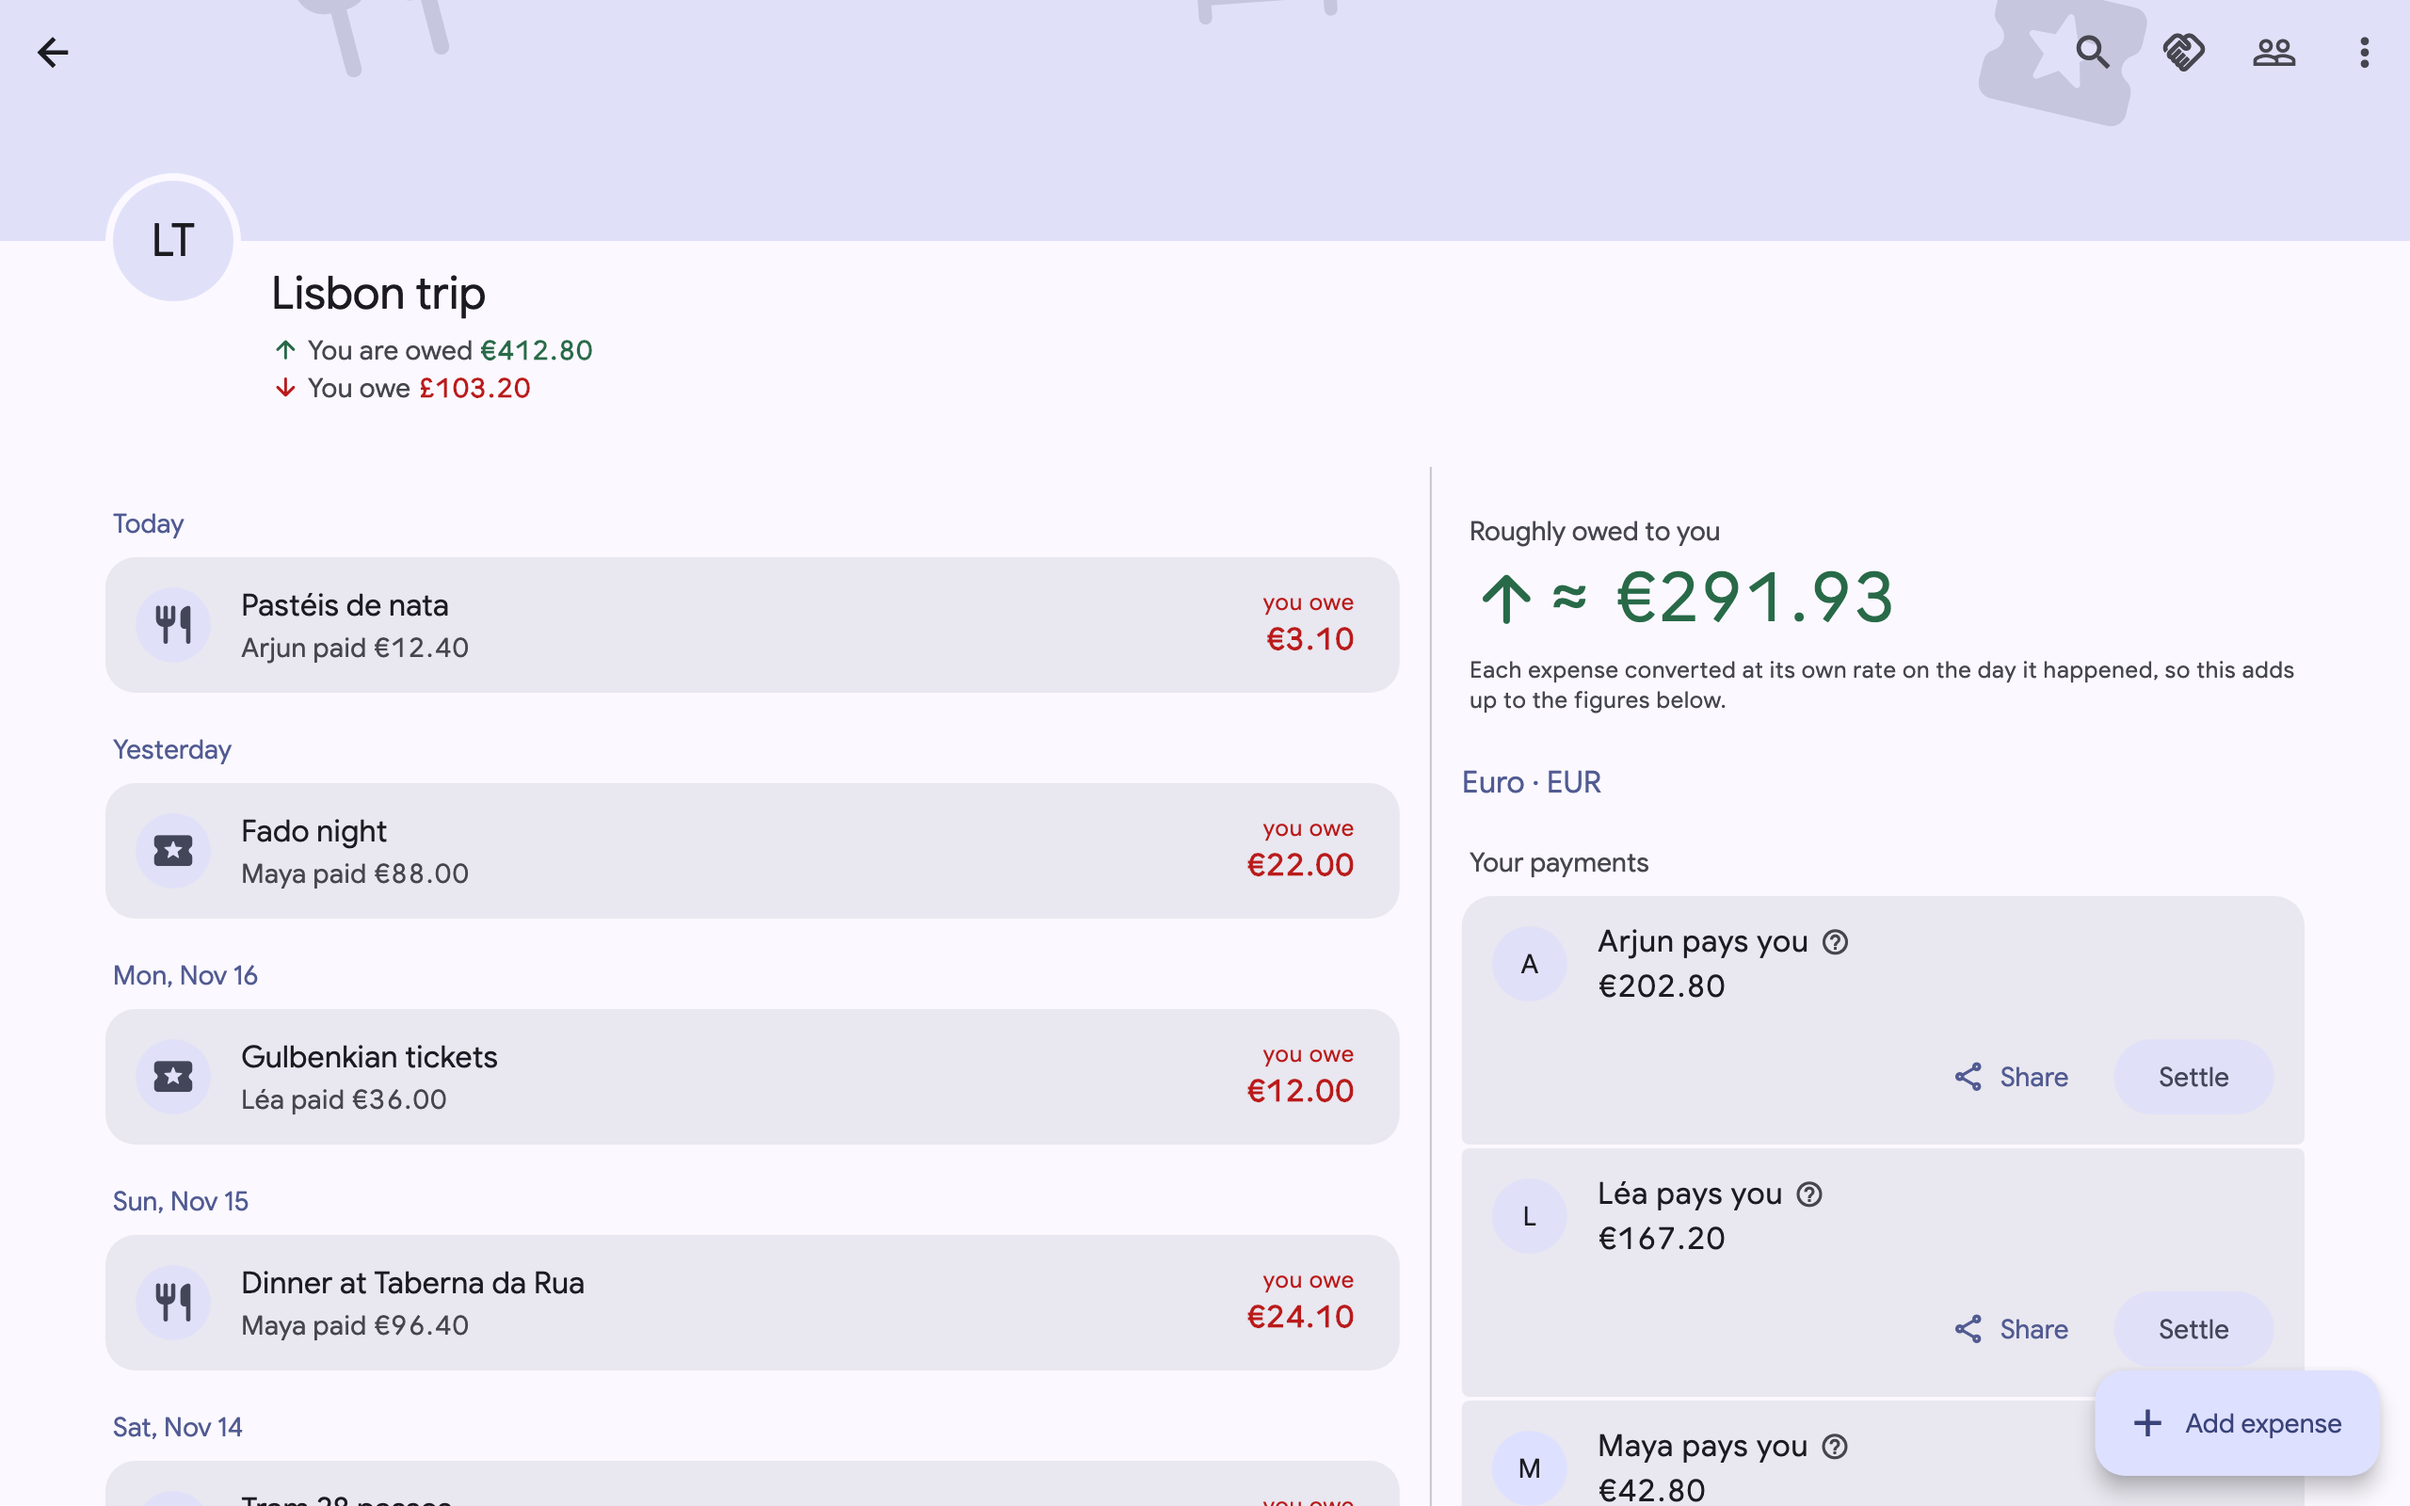
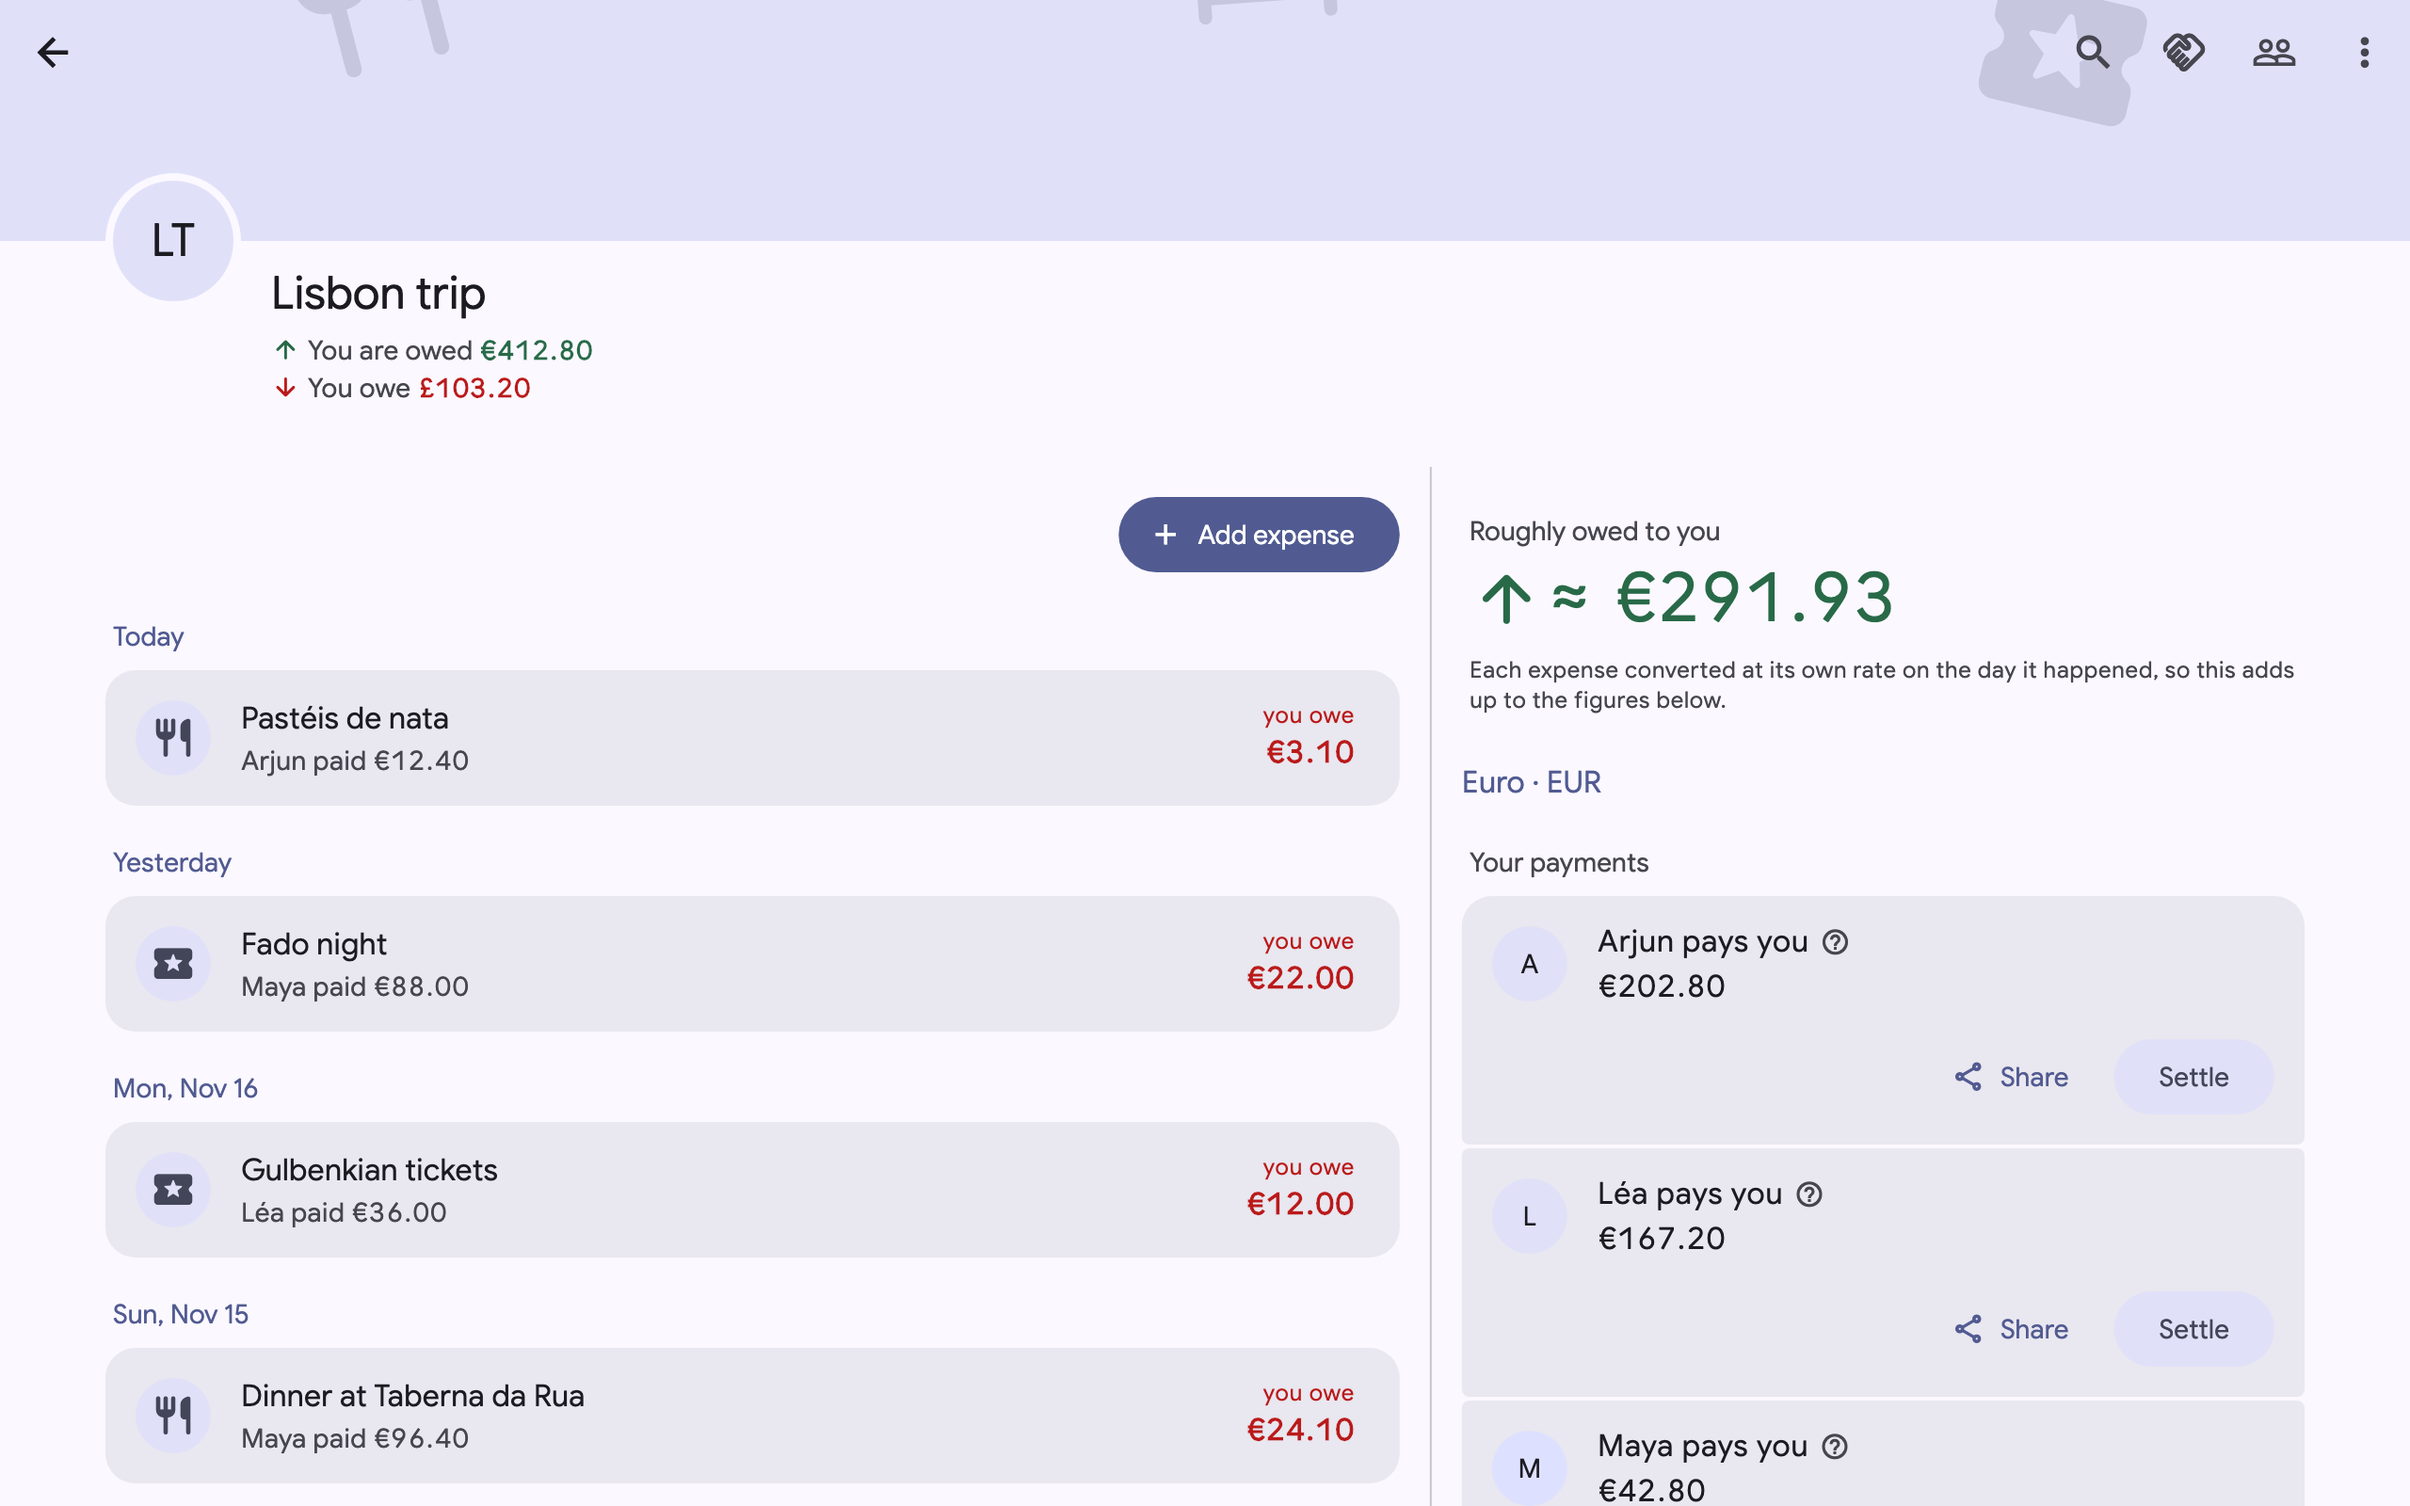
Keep Add expense inside the wide Expenses pane

diff --git a/lib/presentation/screens/group_detail_screen.dart b/lib/presentation/screens/group_detail_screen.dart
@@ -139,13 +139,16 @@ class _GroupDetailScreenState extends ConsumerState<GroupDetailScreen> {
     if (ledger.me?.isActive != true) return const GroupUnavailableScreen();
 
     final wide = MediaQuery.sizeOf(context).width >= _wideBreakpoint;
+    final VoidCallback? addExpense = ledger.canEdit
+        ? () => context.push<void>('/g/$groupId/add')
+        : null;
 
     final scaffold = Scaffold(
-      floatingActionButton: !ledger.canEdit
+      floatingActionButton: wide || addExpense == null
           ? null
           : ScrollAwareFab(
               extended: _fabExtended,
-              onPressed: () => context.push('/g/$groupId/add'),
+              onPressed: addExpense,
               icon: Icons.add,
               label: 'Add expense',
             ),
@@ -174,7 +177,13 @@ class _GroupDetailScreenState extends ConsumerState<GroupDetailScreen> {
                 ? Row(
                     crossAxisAlignment: CrossAxisAlignment.stretch,
                     children: [
-                      Expanded(flex: 3, child: _EntriesPane(ledger: ledger)),
+                      Expanded(
+                        flex: 3,
+                        child: _EntriesPane(
+                          ledger: ledger,
+                          onAddExpense: addExpense,
+                        ),
+                      ),
                       const VerticalDivider(width: 1),
                       Expanded(
                         flex: 2,
@@ -459,9 +468,10 @@ class _GroupHeader extends ConsumerWidget {
 }
 
 class _EntriesPane extends ConsumerWidget {
-  const _EntriesPane({required this.ledger});
+  const _EntriesPane({required this.ledger, this.onAddExpense});
 
   final GroupLedger ledger;
+  final VoidCallback? onAddExpense;
 
   @override
   Widget build(BuildContext context, WidgetRef ref) {
@@ -490,6 +500,20 @@ class _EntriesPane extends ConsumerWidget {
       groupId: ledger.group.id,
       storageKey: 'expenses',
       slivers: [
+        if (onAddExpense case final addExpense?)
+          SliverToBoxAdapter(
+            child: Padding(
+              padding: const EdgeInsets.fromLTRB(16, 12, 16, 0),
+              child: Align(
+                alignment: AlignmentDirectional.centerEnd,
+                child: FilledButton.icon(
+                  onPressed: addExpense,
+                  icon: const Icon(Icons.add),
+                  label: const Text('Add expense'),
+                ),
+              ),
+            ),
+          ),
         if (ledger.entries.isEmpty)
           SliverFillRemaining(
             hasScrollBody: false,

diff --git a/test/presentation/group_look_test.dart b/test/presentation/group_look_test.dart
@@ -300,10 +300,25 @@ void main() {
     expect(tester.takeException(), isNull);
     expect(find.text('OpenSplit'), findsWidgets);
     await tapAndSettle(tester, find.text('Lisbon trip'));
+
+    final addExpense = find.text('Add expense');
+    final expenses = find.ancestor(
+      of: find.text('Spent').first,
+      matching: find.byType(CustomScrollView),
+    );
+    expect(find.descendant(of: expenses, matching: addExpense), findsOneWidget);
+    await tapAndSettle(tester, addExpense);
+    expect(find.text('What was it?'), findsOneWidget);
+    await tapAndSettle(tester, find.byType(CloseButton));
+
     tester.view.physicalSize = const Size(360, 800);
     await settle(tester);
     expect(tester.takeException(), isNull);
     expect(find.text('Expenses'), findsOneWidget);
+    expect(
+      find.widgetWithText(FloatingActionButton, 'Add expense'),
+      findsOneWidget,
+    );
     await unmount(tester);
   }, variant: TargetPlatformVariant({TargetPlatform.macOS}));
 

diff --git a/CHANGELOG.md b/CHANGELOG.md
@@ -8,6 +8,9 @@ What changed in each version of the app, newest first. The format is
 ### Changed
 - Group cards, expenses and payments now expand into their details, with simpler transitions for editing.
 
+### Fixed
+- Add expense stays in the Expenses pane on wide screens so it leaves settlement actions accessible.
+
 ## [4.2.3] - 2026-11-19
 ### Fixed
 - Updated the local database library for faster reads and more reliable batch updates.
